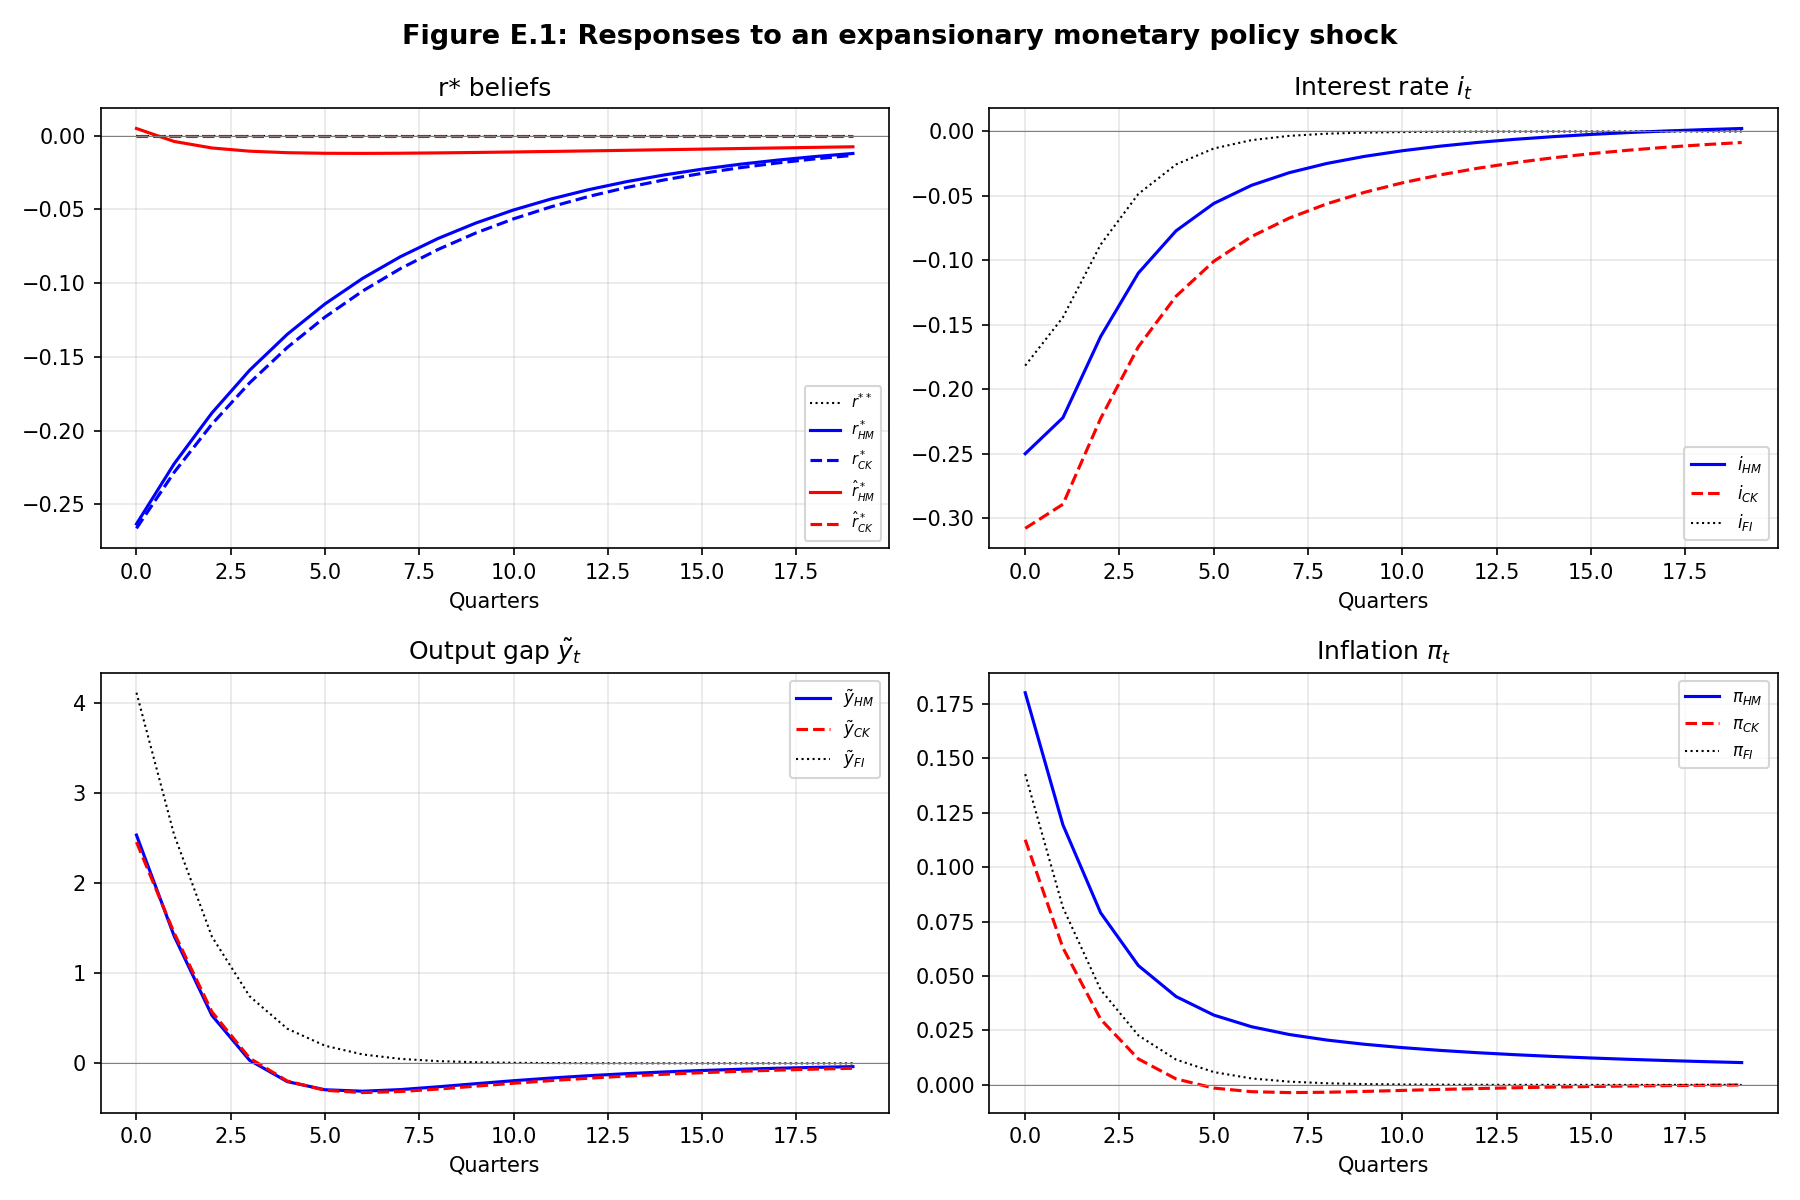
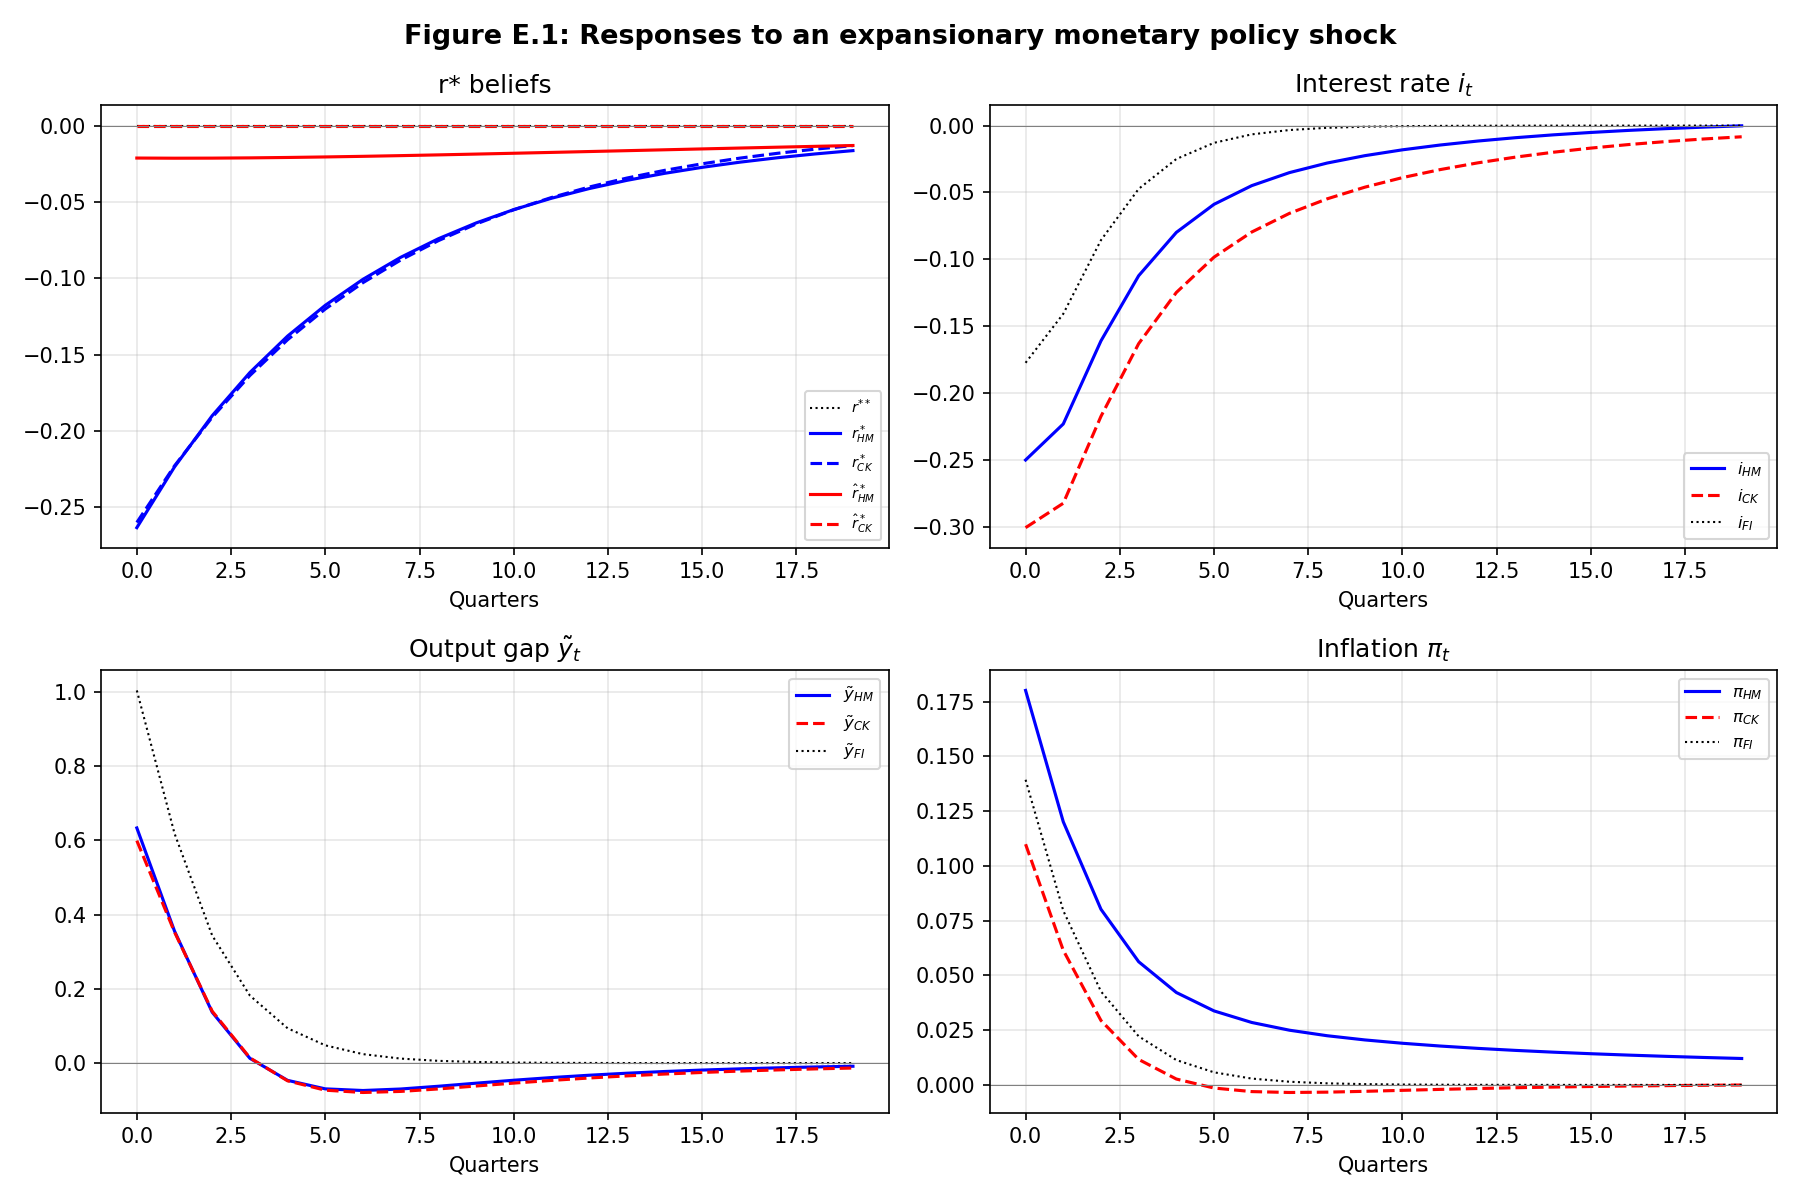
Update HOM

diff --git a/hom/solve_hom.py b/hom/solve_hom.py
@@ -18,7 +18,8 @@ from belief_system import (
 )
 
 RESULTS_DIR = os.path.join(os.path.dirname(os.path.abspath(__file__)), "results")
-PP = 1  # model variables are already in percentage points
+PP_ANNUAL = 4.0  # r**, r*, i, and pi are quarterly model units; plots annualize them
+PP_LEVEL = 1.0   # output gap is not annualized
 
 
 # ======================================================================
@@ -247,34 +248,56 @@ def main():
     # Shock configurations matching paper's Figures E.1-E.4
     # ------------------------------------------------------------------
 
-    # E.1: Monetary policy shock -- normalized to 25bp i_t reduction under HoM
-    #   Use negative u_c (accommodative). Find scale s.t. HoM i_t[0] = -25bp.
+    # E.1: Monetary policy shock -- normalize to a 25bp annualized i_t reduction under HoM.
+    # In quarterly model units this is -0.25 / 4 on impact.
     test = compute_all_irfs(params.IDX_UC, -1.0, 20)
     hom_i0 = test['HoM'][2][0]  # i_path[0] for unit negative u_c under HoM
     if abs(hom_i0) > 1e-15:
-        # Scale so that HoM i_t[0] * PP = -0.25 pp (25bp reduction)
-        mp_shock_size = 0.25 / hom_i0  # negative (accommodative)
+        mp_shock_size = (0.25 / 4.0) / hom_i0  # negative (accommodative)
     else:
         mp_shock_size = -params.sigma_uc  # fallback
     print(f"\n  Monetary policy: HoM i_t[0] per unit negative u_c = {hom_i0:.6f}")
-    print(f"  Shock size for 25bp = {mp_shock_size:.6f}")
+    print(f"  Shock size for 25bp annualized = {mp_shock_size:.6f}")
 
     mp_irfs = compute_all_irfs(params.IDX_UC, mp_shock_size, 20)
 
-    # E.2: Demand shock -- 1 SD, negative (adverse demand)
-    demand_irfs = compute_all_irfs(params.IDX_UH, -params.sigma_uh, 40)
+    # E.2: Demand shock -- normalize to HoM i_t[0] = +0.59 annualized.
+    test = compute_all_irfs(params.IDX_UH, 1.0, 40)
+    hom_i0 = test['HoM'][2][0]
+    if abs(hom_i0) > 1e-15:
+        demand_shock_size = (0.59 / 4.0) / hom_i0
+    else:
+        demand_shock_size = params.sigma_uh
+    print(f"  Demand: HoM i_t[0] per unit u_h = {hom_i0:.6f}")
+    print(f"  Shock size for i_t[0] = +0.59 annualized = {demand_shock_size:.6f}")
 
-    # E.3: Cost-push shock -- 1 SD, positive (inflationary)
-    cp_irfs = compute_all_irfs(params.IDX_UP, params.sigma_up, 40)
+    demand_irfs = compute_all_irfs(params.IDX_UH, demand_shock_size, 40)
 
-    # E.4: r** fundamentals shock -- 1 percentage point decrease
-    rstar_irfs = compute_all_irfs(params.IDX_RSTAR, -1.0, 40)
+    # E.3: Cost-push shock -- normalize to HoM output gap = -0.6 on impact.
+    test = compute_all_irfs(params.IDX_UP, 1.0, 40)
+    hom_y0 = test['HoM'][3][0]
+    if abs(hom_y0) > 1e-15:
+        cp_shock_size = -0.6 / hom_y0
+    else:
+        cp_shock_size = params.sigma_up
+    print(f"  Cost-push: HoM y_t[0] per unit u_p = {hom_y0:.6f}")
+    print(f"  Shock size for y_t[0] = -0.6 = {cp_shock_size:.6f}")
+
+    cp_irfs = compute_all_irfs(params.IDX_UP, cp_shock_size, 40)
+
+    # E.4: r** fundamentals shock -- 1 percentage point annualized decrease.
+    # In quarterly model units this is -1 / 4 on impact.
+    rstar_irfs = compute_all_irfs(params.IDX_RSTAR, -0.25, 40)
 
     # Verify normalization
-    print(f"\n  E.1 HoM i_t[0] = {mp_irfs['HoM'][2][0] * PP:.3f} pp "
+    print(f"\n  E.1 HoM i_t[0] = {mp_irfs['HoM'][2][0] * PP_ANNUAL:.3f} pp "
           f"(target: -0.250)")
-    print(f"  E.1 FI  i_t[0] = {mp_irfs['FI'][2][0] * PP:.3f} pp")
-    print(f"  E.4 FI  r** beliefs[0] = {rstar_irfs['FI'][0][0] * PP:.3f} pp "
+    print(f"  E.1 FI  i_t[0] = {mp_irfs['FI'][2][0] * PP_ANNUAL:.3f} pp")
+    print(f"  E.2 HoM i_t[0] = {demand_irfs['HoM'][2][0] * PP_ANNUAL:.3f} pp "
+          f"(target: 0.590)")
+    print(f"  E.3 HoM y_t[0] = {cp_irfs['HoM'][3][0] * PP_LEVEL:.3f} pp "
+          f"(target: -0.600)")
+    print(f"  E.4 FI  r** beliefs[0] = {rstar_irfs['FI'][0][0] * PP_ANNUAL:.3f} pp "
           f"(target: -1.000)")
 
     all_shocks = [
@@ -318,16 +341,16 @@ def main():
         # ---- Top-left: r* beliefs ----
         ax = axes[0, 0]
         # True r** (black dotted)
-        ax.plot(quarters, fi[0] * PP, 'k:', linewidth=1.0, label=r'$r^{**}$')
+        ax.plot(quarters, fi[0] * PP_ANNUAL, 'k:', linewidth=1.0, label=r'$r^{**}$')
         # HH beliefs r* (blue: solid=HM, dashed=CK)
-        ax.plot(quarters, hom_d[0] * PP, 'b-', linewidth=1.5,
+        ax.plot(quarters, hom_d[0] * PP_ANNUAL, 'b-', linewidth=1.5,
                 label=r'$r^*_{HM}$')
-        ax.plot(quarters, ck_d[0] * PP, 'b--', linewidth=1.5,
+        ax.plot(quarters, ck_d[0] * PP_ANNUAL, 'b--', linewidth=1.5,
                 label=r'$r^*_{CK}$')
         # CB beliefs r̂* (red: solid=HM, dashed=CK)
-        ax.plot(quarters, hom_d[1] * PP, 'r-', linewidth=1.5,
+        ax.plot(quarters, hom_d[1] * PP_ANNUAL, 'r-', linewidth=1.5,
                 label=r'$\hat{r}^*_{HM}$')
-        ax.plot(quarters, ck_d[1] * PP, 'r--', linewidth=1.5,
+        ax.plot(quarters, ck_d[1] * PP_ANNUAL, 'r--', linewidth=1.5,
                 label=r'$\hat{r}^*_{CK}$')
         ax.axhline(y=0, color='gray', linewidth=0.5)
         ax.set_title("r* beliefs")
@@ -336,11 +359,11 @@ def main():
 
         # ---- Top-right: Interest rate ----
         ax = axes[0, 1]
-        ax.plot(quarters, hom_d[2] * PP, 'b-', linewidth=1.5,
+        ax.plot(quarters, hom_d[2] * PP_ANNUAL, 'b-', linewidth=1.5,
                 label=r'$i_{HM}$')
-        ax.plot(quarters, ck_d[2] * PP, 'r--', linewidth=1.5,
+        ax.plot(quarters, ck_d[2] * PP_ANNUAL, 'r--', linewidth=1.5,
                 label=r'$i_{CK}$')
-        ax.plot(quarters, fi[2] * PP, 'k:', linewidth=1.0,
+        ax.plot(quarters, fi[2] * PP_ANNUAL, 'k:', linewidth=1.0,
                 label=r'$i_{FI}$')
         ax.axhline(y=0, color='gray', linewidth=0.5)
         ax.set_title(r"Interest rate $i_t$")
@@ -349,11 +372,11 @@ def main():
 
         # ---- Bottom-left: Output gap ----
         ax = axes[1, 0]
-        ax.plot(quarters, hom_d[3] * PP, 'b-', linewidth=1.5,
+        ax.plot(quarters, hom_d[3] * PP_LEVEL, 'b-', linewidth=1.5,
                 label=r'$\tilde{y}_{HM}$')
-        ax.plot(quarters, ck_d[3] * PP, 'r--', linewidth=1.5,
+        ax.plot(quarters, ck_d[3] * PP_LEVEL, 'r--', linewidth=1.5,
                 label=r'$\tilde{y}_{CK}$')
-        ax.plot(quarters, fi[3] * PP, 'k:', linewidth=1.0,
+        ax.plot(quarters, fi[3] * PP_LEVEL, 'k:', linewidth=1.0,
                 label=r'$\tilde{y}_{FI}$')
         ax.axhline(y=0, color='gray', linewidth=0.5)
         ax.set_title(r"Output gap $\tilde{y}_t$")
@@ -362,11 +385,11 @@ def main():
 
         # ---- Bottom-right: Inflation ----
         ax = axes[1, 1]
-        ax.plot(quarters, hom_d[4] * PP, 'b-', linewidth=1.5,
+        ax.plot(quarters, hom_d[4] * PP_ANNUAL, 'b-', linewidth=1.5,
                 label=r'$\pi_{HM}$')
-        ax.plot(quarters, ck_d[4] * PP, 'r--', linewidth=1.5,
+        ax.plot(quarters, ck_d[4] * PP_ANNUAL, 'r--', linewidth=1.5,
                 label=r'$\pi_{CK}$')
-        ax.plot(quarters, fi[4] * PP, 'k:', linewidth=1.0,
+        ax.plot(quarters, fi[4] * PP_ANNUAL, 'k:', linewidth=1.0,
                 label=r'$\pi_{FI}$')
         ax.axhline(y=0, color='gray', linewidth=0.5)
         ax.set_title(r"Inflation $\pi_t$")
@@ -408,11 +431,11 @@ def main():
 
     # Quick sanity: FI long-run i for r** shock should approach -1pp (= r**)
     fi_rstar = rstar_irfs['FI']
-    print(f"\n  FI i_t at t=39 for r** shock: {fi_rstar[2][-1] * PP:.3f} pp "
+    print(f"\n  FI i_t at t=39 for r** shock: {fi_rstar[2][-1] * PP_ANNUAL:.3f} pp "
           f"(target: -1.0)")
-    print(f"  FI y_t at t=39 for r** shock: {fi_rstar[3][-1] * PP:.4f} pp "
+    print(f"  FI y_t at t=39 for r** shock: {fi_rstar[3][-1] * PP_LEVEL:.4f} pp "
           f"(target: 0)")
-    print(f"  FI pi_t at t=39 for r** shock: {fi_rstar[4][-1] * PP:.4f} pp "
+    print(f"  FI pi_t at t=39 for r** shock: {fi_rstar[4][-1] * PP_ANNUAL:.4f} pp "
           f"(target: 0)")
     print("=" * 60)
 

diff --git a/hom/belief_system.py b/hom/belief_system.py
@@ -198,19 +198,18 @@ def build_H_h_perceived_by_c():
     return H_z @ D_z
 
 
-def build_H_c_own_hom(M_h_c, FI_uc):
+def build_H_c_own_hom(M_h_c, direct_uc_macro):
     """CB's own obs matrix under HoM (Eq C.21).
 
     The CB's perceived macro outcomes use M_h^{|c} (computed under the
     perceived HH info set without interest rate). The direct Z_t effect
-    on y_tilde and pi from u_c uses the full-information response FI_uc,
-    because the CB expects the reaction to u_c to be the same as under
-    full information (u_c enters the Taylor rule, affecting y and pi
-    indirectly through the NK system).
+    on y_tilde and pi from u_c uses the current NK-block loading on the
+    household's first-order u_c belief.
 
     Args:
         M_h_c: (3, DIM_M) M_h under CB-perceived HH info set.
-        FI_uc: (3,) full-information response of (y, pi, i) to u_c.
+        direct_uc_macro: (2,) direct impact of a current household u_c belief
+            on (y_tilde, pi) in the NK block.
 
     Returns:
         H: (5, DIM_X)
@@ -224,8 +223,8 @@ def build_H_c_own_hom(M_h_c, FI_uc):
     H_z[1, params.IDX_RSTAR] = 1.0
     H_z[1, params.IDX_F] = 1.0
     H_z[2, params.IDX_UC] = 1.0
-    H_z[3, params.IDX_UC] = FI_uc[0]  # FI response of y to u_c (C.21)
-    H_z[4, params.IDX_UC] = FI_uc[1]  # FI response of pi to u_c (C.21)
+    H_z[3, params.IDX_UC] = direct_uc_macro[0]
+    H_z[4, params.IDX_UC] = direct_uc_macro[1]
 
     H_m = np.zeros((N_OBS, params.DIM_M))
     H_m[3, :] = M_h_c[0, :]          # y_tilde belief-driven part
@@ -451,7 +450,8 @@ def solve_hom_equilibrium(M_h_func, FI_uc, ck_solution=None,
 
     Args:
         M_h_func: Callable(Phi_h, Psi_h, Omega_h) -> M_h (3, DIM_M).
-        FI_uc: (3,) full-information response of (y, pi, i) to u_c.
+        FI_uc: retained for compatibility with callers; phase 1 uses the
+            current household-side u_c loading instead.
         ck_solution: Optional CK equilibrium dict to warm-start iteration.
         tol: convergence tolerance.
         max_iter: maximum iterations.
@@ -521,7 +521,8 @@ def solve_hom_equilibrium(M_h_func, FI_uc, ck_solution=None,
             G_h_c, H_h_perc_c, A_Xh_c, B_mh_c, Phi_c_c, Omega_c_c)
 
         M_h_c_new = M_h_func(Phi_h_c, Psi_h_c, Omega_h_c)
-        H_c_c = build_H_c_own_hom(M_h_c_new, FI_uc)
+        M_h_h_cur = M_h_func(Phi_h_h, Psi_h_h, Omega_h_h)
+        H_c_c = build_H_c_own_hom(M_h_c_new, M_h_h_cur[:2, params.IDX_UC])
 
         A_Xc_c, B_qc_c, B_mc_c = build_state_space(Phi_h_c, Psi_h_c, Omega_h_c)
         G_c_c, P_c_c = solve_kalman_dare(A_Xc_c, B_qc_c, H_c_c, Sigma_q)
@@ -582,41 +583,60 @@ def solve_hom_equilibrium(M_h_func, FI_uc, ck_solution=None,
         if diff < tol:
             break
 
-    # ---- Phase 2: Actual equilibrium (Eqs C.24-C.26) ----
-    # Compute actual M_h using HH dynamics from h's own perceived world
+    # Recompute the phase-1 objects at the final fixed point so phase 2 uses
+    # internally consistent gains and observation matrices.
+    A_Xh_h, B_qh_h, B_mh_h = build_state_space(Phi_c_h, Psi_c_h, Omega_c_h)
+    G_h_h, P_h_h = solve_kalman_dare(A_Xh_h, B_qh_h, H_h_actual, Sigma_q)
+
+    A_Xc_h, B_qc_h, B_mc_h = build_state_space(Phi_h_h, Psi_h_h, Omega_h_h)
+    G_c_h, _ = solve_kalman_dare(A_Xc_h, B_qc_h, H_c_perc_h, Sigma_q)
+
+    A_Xh_c, B_qh_c, B_mh_c = build_state_space(Phi_c_c, Psi_c_c, Omega_c_c)
+    G_h_c, _ = solve_kalman_dare(A_Xh_c, B_qh_c, H_h_perc_c, Sigma_q)
+
     M_h_actual = M_h_func(Phi_h_h, Psi_h_h, Omega_h_h)
-    H_c_actual = build_H_c(M_h_actual)
+    M_h_c = M_h_func(Phi_h_c, Psi_h_c, Omega_h_c)
+    H_c_c = build_H_c_own_hom(M_h_c, M_h_actual[:2, params.IDX_UC])
+
+    A_Xc_c, B_qc_c, B_mc_c = build_state_space(Phi_h_c, Psi_h_c, Omega_h_c)
+    G_c_c, P_c_c = solve_kalman_dare(A_Xc_c, B_qc_c, H_c_c, Sigma_q)
+
+    # ---- Phase 2: Actual equilibrium (Eqs C.24-C.26) ----
+    # The paper's phase-2 recursion uses the phase-1 Kalman gains G_i^{|i},
+    # own signal matrices H_i^{|i}, and cross signal matrices H_i^{|j}.
+    # In this implementation:
+    # - H_h^{|h} and H_h^{|c} coincide with the household's actual signal map.
+    # - H_c^{|c} is the CB's own HoM observation map from Eq. C.21.
+    # - H_c^{|h} uses the macro mapping implied by the household's perceived world.
+    H_h_h = H_h_actual
+    H_h_c = H_h_actual
+    H_c_h = build_H_c(M_h_actual)
 
     I_X = np.eye(DIM_X)
     I_M = np.eye(DIM_M)
 
-    # Autonomous prediction coefficients (projected to DIM_M)
-    # D_mi extracts m_i (own-agent, positions 0:84)
-    # C_mi embeds m_i (own-agent); C_m embeds m_j (other agent)
-    auto_h = D_mi @ (I_X - G_h_h @ H_h_actual) @ (A_Xh_h + B_mh_h) @ C_mi
-    auto_c = D_mi @ (I_X - G_c_c @ H_c_c) @ (A_Xc_c + B_mc_c) @ C_mi
+    own_h = Phi_h_h - D_mi @ G_h_h @ H_h_h @ C_m @ Psi_c_h
+    own_c = Phi_c_c - D_mi @ G_c_c @ H_c_c @ C_m @ Psi_h_c
 
-    # Signal gains: own-agent extraction (D_mi), other-agent embedding (C_m)
-    sig_h = D_mi @ G_h_h @ H_h_actual @ C_m       # how m_c affects m_h
-    sig_c = D_mi @ G_c_c @ H_c_actual @ C_m       # how m_h affects m_c
+    cross_h = D_mi @ G_h_h @ H_h_c @ C_m
+    cross_c = D_mi @ G_c_c @ H_c_h @ C_m
 
-    # Cross-coupling inversion (Eqs C.24-C.26)
-    inv_h = np.linalg.inv(I_M - sig_h @ sig_c)
-    inv_c = np.linalg.inv(I_M - sig_c @ sig_h)
+    inv_h = np.linalg.inv(I_M - cross_h @ cross_c)
+    inv_c = np.linalg.inv(I_M - cross_c @ cross_h)
 
-    # Eq C.24: Phi
-    Phi_h_act = inv_h @ auto_h
-    Phi_c_act = inv_c @ auto_c
+    # Eq C.24
+    Phi_h_act = inv_h @ own_h
+    Phi_c_act = inv_c @ own_c
 
-    # Eq C.25: Psi
-    Psi_h_act = inv_h @ sig_h @ auto_c
-    Psi_c_act = inv_c @ sig_c @ auto_h
+    # Eq C.25
+    Psi_h_act = inv_h @ cross_h @ own_c
+    Psi_c_act = inv_c @ cross_c @ own_h
 
-    # Eq C.26: Omega
-    Omega_h_act = inv_h @ D_mi @ G_h_h @ H_h_actual @ (
-        I_X + C_m @ D_mi @ G_c_c @ H_c_actual) @ C_z
-    Omega_c_act = inv_c @ D_mi @ G_c_c @ H_c_actual @ (
-        I_X + C_m @ D_mi @ G_h_h @ H_h_actual) @ C_z
+    # Eq C.26
+    Omega_h_act = inv_h @ D_mi @ G_h_h @ H_h_c @ (
+        I_X + C_m @ D_mi @ G_c_c @ H_c_h) @ C_z
+    Omega_c_act = inv_c @ D_mi @ G_c_c @ H_c_h @ (
+        I_X + C_m @ D_mi @ G_h_h @ H_h_c) @ C_z
 
     return {
         'perceived': {
@@ -631,7 +651,21 @@ def solve_hom_equilibrium(M_h_func, FI_uc, ck_solution=None,
             'Phi_h': Phi_h_act, 'Psi_h': Psi_h_act, 'Omega_h': Omega_h_act,
             'Phi_c': Phi_c_act, 'Psi_c': Psi_c_act, 'Omega_c': Omega_c_act,
         },
-        'H_h': H_h_actual, 'H_c': H_c_actual, 'M_h': M_h_actual,
+        'debug': {
+            'H_h_actual': H_h_actual,
+            'H_c_actual': H_c_h,
+            'H_c_perc_h': H_c_perc_h,
+            'H_h_perc_c': H_h_perc_c,
+            'H_h_h': H_h_h,
+            'H_h_c': H_h_c,
+            'H_c_h': H_c_h,
+            'H_c_c': H_c_c,
+            'G_h_h': G_h_h,
+            'G_c_h': G_c_h,
+            'G_h_c': G_h_c,
+            'G_c_c': G_c_c,
+        },
+        'H_h': H_h_actual, 'H_c': H_c_h, 'M_h': M_h_actual,
         'converged': diff < tol,
         'iterations': it + 1,
         'final_diff': diff,
